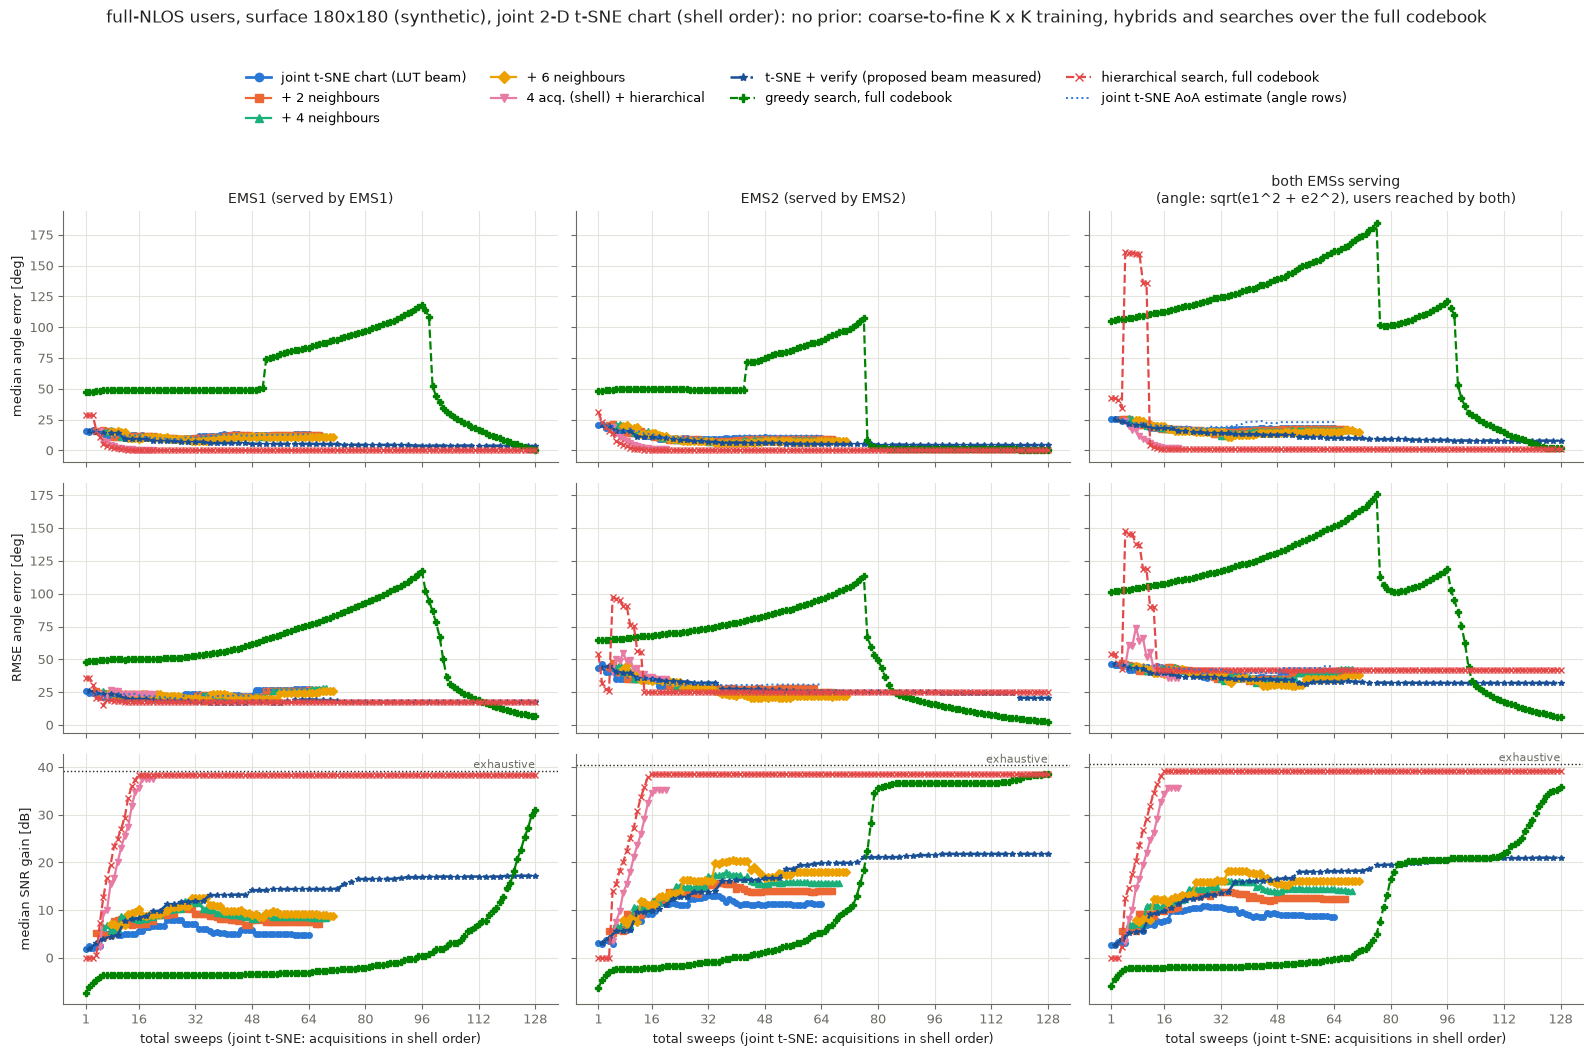
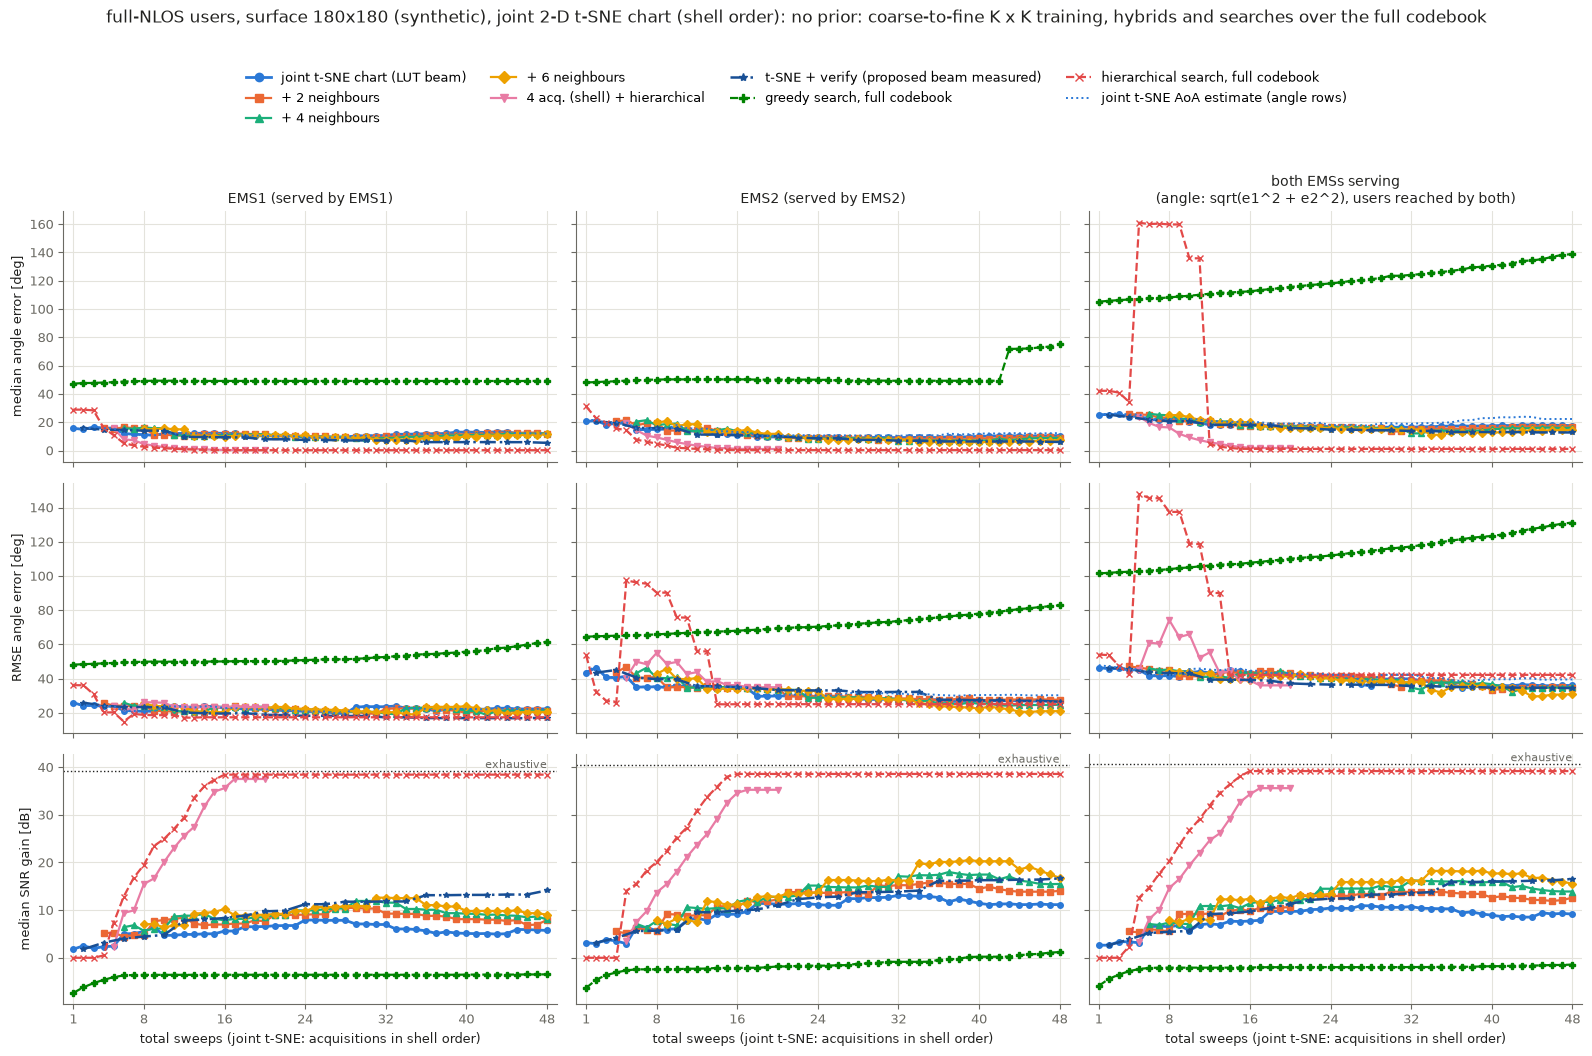
Joint 2-D chart figures: x axis cut at 48 sweeps

diff --git a/experiments/plot_joint_chart.py b/experiments/plot_joint_chart.py
@@ -12,6 +12,7 @@ Shell order (second argument 'shell'): the same pairs evaluated after every acqu
 Curves absent from a summary (e.g. t-SNE + verify in older runs) are simply not drawn. When the
 summary has the incremental neighbour search, only never-worse (in SNR) curves are drawn: t-SNE +
 verify, + neighbour search after 1 / 4 / 9 verified acquisitions, (4 acq.) + hierarchical, searches.
+x axis cut at PJC_XMAX total sweeps (default 48).
 Usage: python experiments/plot_joint_chart.py results_aoa/serving_joint_chart/est_G60dB
        python experiments/plot_joint_chart.py results_aoa/serving_joint_chart/est_G60dB/figures/shell_order shell
 """
@@ -30,7 +31,8 @@ plt.rcParams.update({'font.size': 9, 'axes.edgecolor': MUTED, 'axes.labelcolor':
 T = collections.defaultdict(dict)
 for x in csv.DictReader(open(os.path.join(D, 'summary.csv'))):
     T[(x['surface'], x['view'])][(x['training'], x['scheme'], int(x['K']), int(x['R']), int(x['sweeps']))] = x
-XMAX = max(k[4] for t in T.values() for k in t)
+XCUT = int(os.environ.get('PJC_XMAX', '48'))                    # x axis cut (total sweeps)
+XMAX = min(XCUT, max(k[4] for t in T.values() for k in t))
 MONO = any(k[1].startswith('tsne+verify+nbr') for t in T.values() for k in t)   # only never-worse curves
 
 
@@ -79,7 +81,7 @@ SURF = {'M60_raytraced': 'real 60x60', 'M60': '60x60 (synthetic)', 'M120': '120x
 def curve(tab, tr, sc, Kf, R, met):
     pts = {}
     for (t, s, K, r, w), x in tab.items():
-        if t == tr and s == sc and r == R and (Kf is None or K == Kf) and w >= 1:
+        if t == tr and s == sc and r == R and (Kf is None or K == Kf) and 1 <= w <= XMAX:
             pts[w] = float(x[met])
     return sorted(pts), [pts[w] for w in sorted(pts)]
 
@@ -115,7 +117,8 @@ for folder, vtitle, main, ser in VARIANTS:
                 if r == len(ROWS) - 1:
                     a.set_xlabel('total sweeps (joint t-SNE: acquisitions in shell order)' if SHELL else
                                  'total sweeps (pure joint t-SNE at K^2 = 1, 4, 9, ...)')
-                a.set_xticks(([1] + list(range(16, XMAX + 1, 16))) if SHELL else [1, 4, 9, 16, 25, 36, 49, 64, XMAX])
+                a.set_xticks(([1] + list(range(8, XMAX + 1, 8))) if SHELL else [x for x in (1, 4, 9, 16, 25, 36, 49, 64) if x < XMAX] + [XMAX])
+                a.set_xlim(0, XMAX + 1)
         h = [Line2D([], [], color=col, marker=mk, ls=ls, lw=lw, label=lab) for lab, tr, sc, Kf, R, col, mk, ls, lw in ser]
         if not MONO:
             h.append(Line2D([], [], color='#2a78d6', ls=':', lw=1.4, label='joint t-SNE AoA estimate (angle rows)'))
